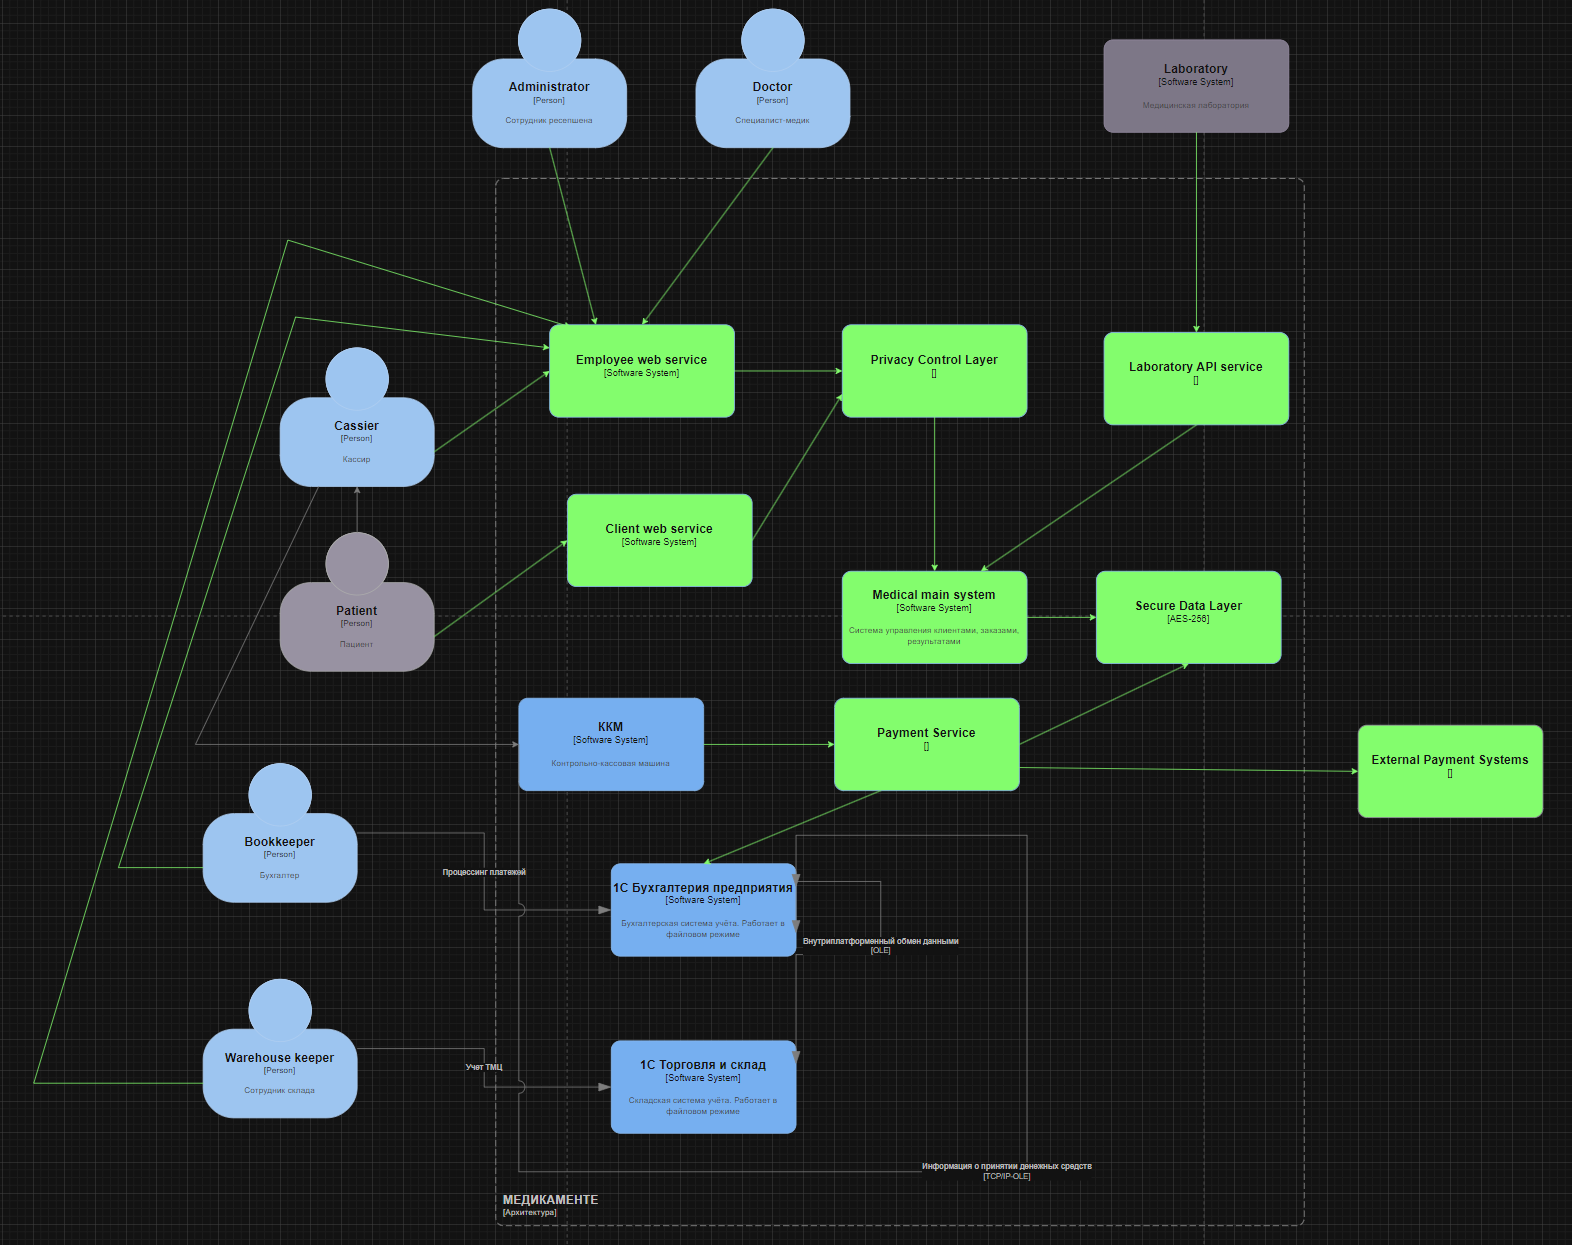
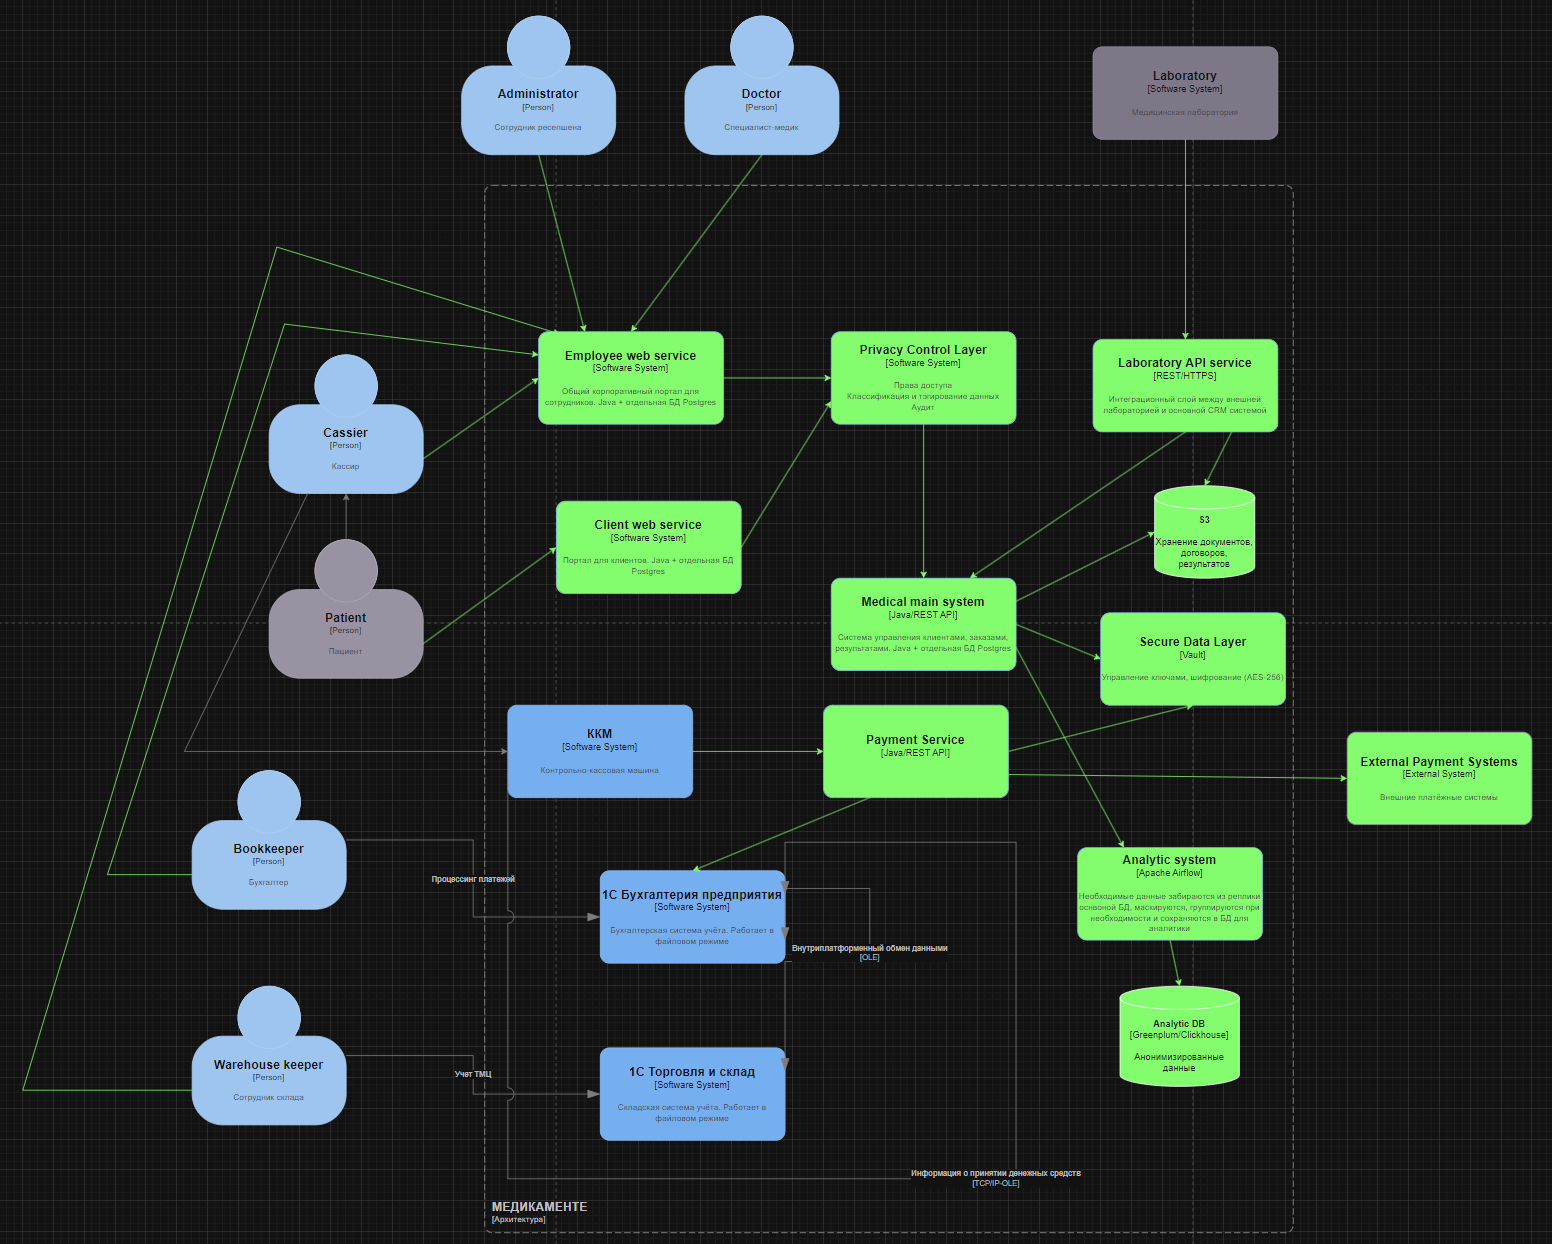
fixed tasks 2 and 3

diff --git a/task3/strategy.md b/task3/strategy.md
@@ -1,15 +1,15 @@
 | Данные | В чём необходимость защиты | Инструменты защиты |
 |--------|---------------------------|-------------------|
-| ФИО, СНИЛС, паспорт пациента | При утечке возможна кража личности и мошенничество | Псевдонимизация в `patient_uuid` хранение; отдельное зашифрованное хранилище; TLS при передаче |
+| ФИО, СНИЛС, паспорт пациента | При утечке возможна кража личности и мошенничество | Псевдонимизация в `patient_uuid` хранение; отдельное зашифрованное хранилище; TLS 1.3 при передаче |
 | Диагнозы, история болезни, назначения врача | Врачебная тайна, раскрытие грозит уголовной ответственностью | AES-256 для файлов, ABAC (только лечащие врачи) |
-| Результаты лабораторных анализов | Специальная категория ПДн (ВИЧ, онко и т.д.), обмен с внешней организацией | AES256 в S3, использование псевдонимизации при передаче в лабораторию (`order_id`); TLS |
+| Результаты лабораторных анализов | Специальная категория ПДн (ВИЧ, онко и т.д.), обмен с внешней организацией | AES256 в S3, использование псевдонимизации при передаче в лабораторию (`order_id`); TLS 1.3 |
 | Медицинские файлы, снимки, документы | Содержат снимки и подписи, врачебная тайна | S3 с AES256, разграничение доступов |
 | Телефон, email пациента | Контактные ПДн, риск фишинга и спама при утечке | маскирование, доступ по ролям |
 | Паспортные данные пациента | Высокий риск мошенничества | маскирование серии и номера, доступ по ролям |
-| Платёжные данные | Финансовые ПДн | 1С в клиент-серверном режиме, без файлов; TLS между ККМ и 1С; RBAC - только кассир и бухгалтер |
+| Платёжные данные | Финансовые ПДн | 1С в клиент-серверном режиме, без файлов; TLS 1.3 между ККМ и 1С; RBAC - только кассир и бухгалтер |
 | Зарплата, кадровые данные сотрудников | Разглашение трудовой информации, нарушение ТК | шифрование, RBAC (HR, руководители) |
 | Трудовые договоры, СНИЛС/ИНН сотрудников | Данные с персональными и корпоративными данными | S3 AES256, RBAC (HR, руководители), логирование |
-| Данные для НДФЛ | Содержат ФИО + доходы сотрудников, передаются вовне | TLS при передаче, разделение доступа |
+| Данные для НДФЛ | Содержат ФИО + доходы сотрудников, передаются вовне | TLS 1.3 при передаче, разделение доступа |
 | Резервные копии баз данных | Бэкапы сейчас хранятся долго и без защиты | отдельный бакет в S3 |
 | Конфигурации, пароли, секреты | Риск компрометации паролей, доступность | Vault и запрет хранения в git и env-файлах, проверка на уровне SonarQube |
 | JWT-токены, пользовательские сессии | Компрометация токена, перехват доступа к данным пациента | HTTPS only, политика обновления refresh token |
